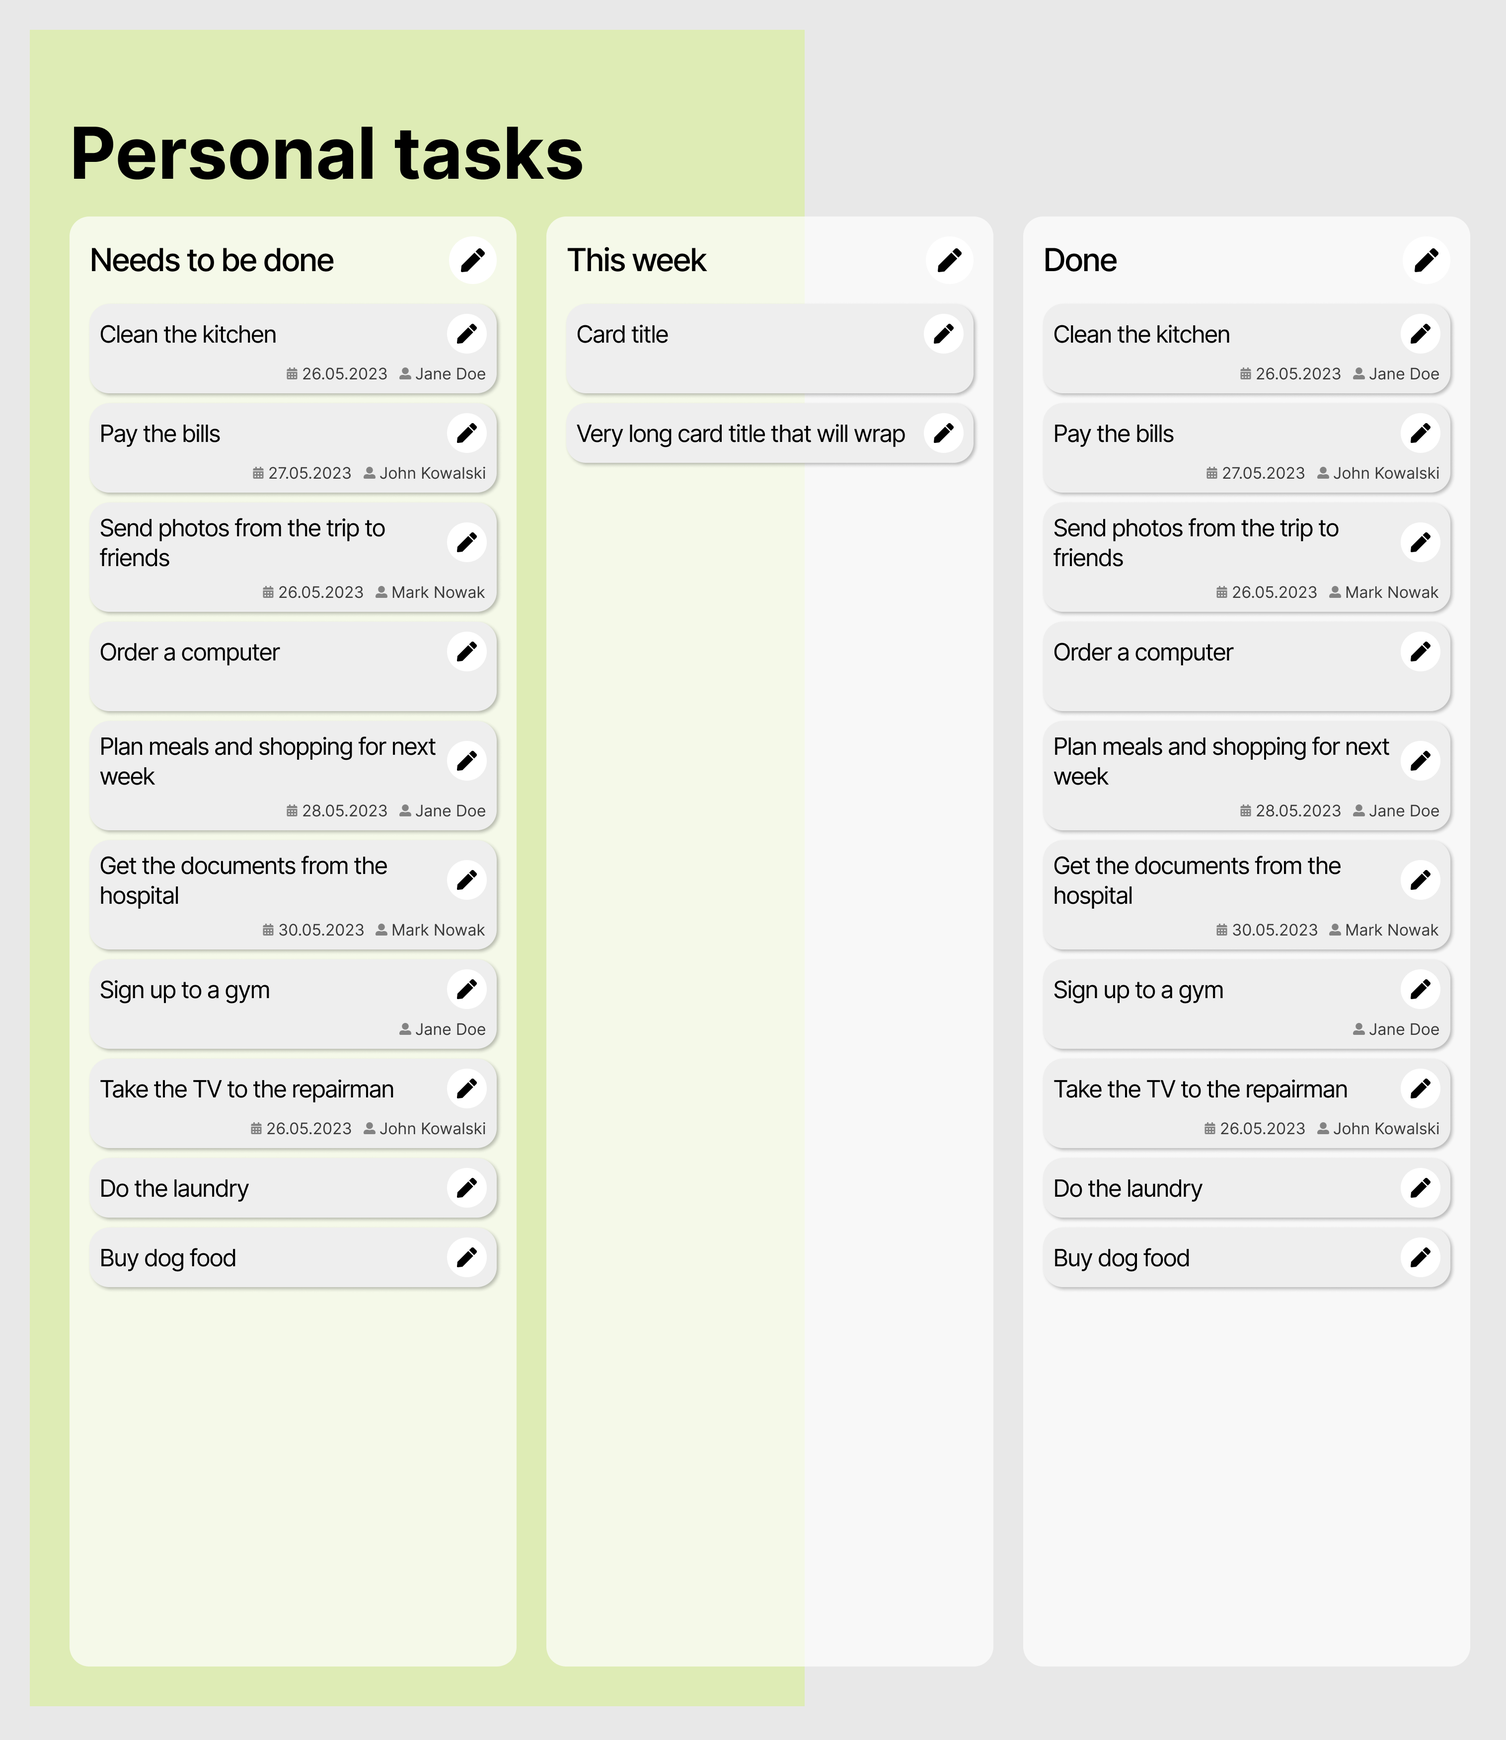
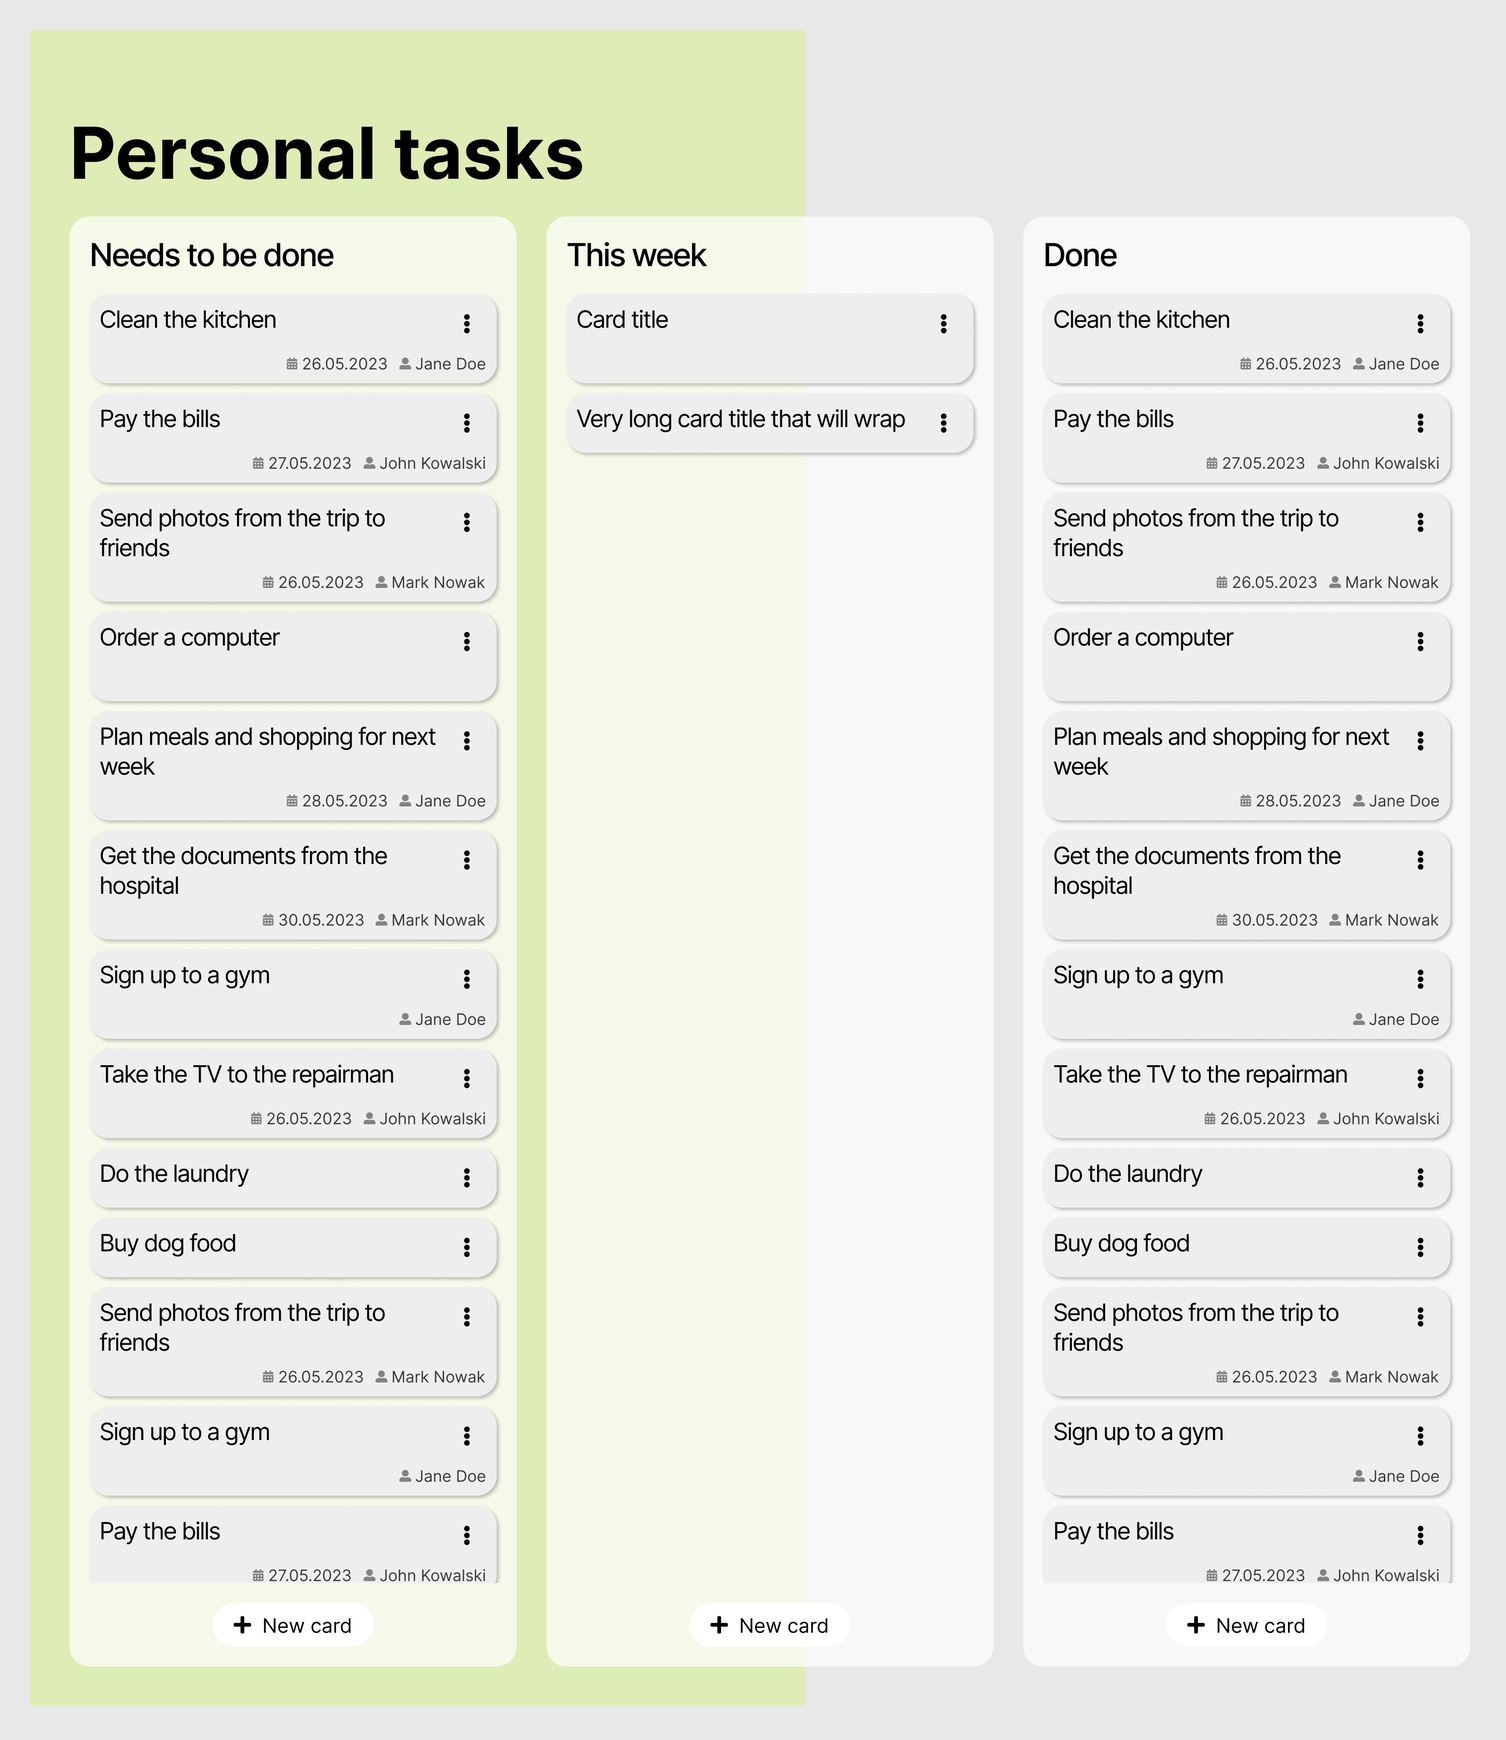
describe the case study in detail

diff --git a/thesis-document/src/3-research-methodology/4-case-study.tex b/thesis-document/src/3-research-methodology/4-case-study.tex
@@ -1,7 +1,7 @@
 \subsection{Case study}\label{subsec:case-study}
 This section describes the practical experiment used to evaluate representations.
 The goal was to validate the previous evaluation in a more realistic development scenario.
-Additionally, this was an opportunity to \todo{lepszy zwrot} gain an impression of developer experience while using the notations.
+Additionally, this was an opportunity to assess the development experience that the notations deliver.
 
 \subsubsection{Scenario and context}
 The goal of this experiment was to evaluate the expressiveness of representations in a practical context.
@@ -9,7 +9,7 @@ This was achieved by recreating a few screens of a fictional application.
 The application designed for this experiment was modeled after Trello\furl{trello.com} \textendash\ a well-known Web application for creating Kanban-style lists.
 The choice was motivated by the application's popularity and relative complexity.
 
-Capabilities of the original are very broad and include detailed management of workspaces, users, boards, as well as editing and managing content-rich cards.
+Capabilities of the original application are very broad and include detailed management of workspaces, users, boards, as well as editing and managing content-rich cards.
 It would not be reasonable to implement all these functionalities \textendash\ to keep the experiment manageable, it was necessary to limit its scope.
 The selected area to implement concerns simple management of cards across two views and a single dialog window:
 \begin{itemize}
@@ -26,20 +26,111 @@ Additionally, the representations should be able to represent two major componen
     \item a column \textendash\ a board consists of multiple columns, each possibly containing multiple cards; additionally, to give it meaning, it also has a title
 \end{itemize}
 
-To further simplify the experiment, the interface was only implemented in a mobile version \textendash\ it is considered a good practice to design applications and website using the \enquote{mobile first} principle\furl{https://developer.mozilla.org/en-US/docs/Web/Progressive_web_apps/Responsive/Mobile_first}.% \textendash\ focusing on designing for narrow devices in the first place and extending the design from there.
+To further simplify the experiment, the interface was only implemented in a mobile version \textendash\ it is considered a good practice to design applications and website using the \enquote{mobile first} principle\furl{https://developer.mozilla.org/en-US/docs/Web/Progressive_web_apps/Responsive/Mobile_first}.
 
-The subsequent paragraphs provide a descriptions of functionalities that the representations were expected to implement.
-However, in this case study, the requirements were not prescriptive \textendash\ they only listed \enquote{features} to implement, without specifying how should they be implemented.
+The subsequent paragraphs provide a descriptions of functionalities that the representations were expected to implement;
+table~\ref{tab:case-study-requirements} summarizes them, split across five sections \textendash\ each corresponding to an implementation area described beforehand.
+In this experiment, the requirements were not prescriptive \textendash\ they only listed \enquote{features} to implement, without specifying how should they be implemented.
 This is meant to produce a more practical evaluation.
+To reflect this freedom of implementation, the evaluation of requirements included a score for partial fulfillment, not only a binary score.
 
-\todo[inline]{scoring system}
+Each requirement RX.Y is assigned a score $R_{X.Y}$ based on formula~\ref{eq:3-4-requirement-scoring}
+\begin{equation}
+    R_{X.Y} =
+    \begin{dcases}
+        0,  & \text{if the requirement is not satisfied}\\
+        0.5 & \text{if the requirement is partially satisfied}\\
+        1   & \text{if the requirement is satisfied}
+    \end{dcases}
+    \label{eq:3-4-requirement-scoring}
+\end{equation}
+
+The score $R_X$ for each area RX is the average score of all the requirements for the area (formula~\ref{eq:3-4-area-scoring}):
+\begin{equation}
+    R_X = \frac{\sum_{i=1}^{n} R_{X.i}}{n}
+    \label{eq:3-4-area-scoring}
+\end{equation}
+
+Similarly, the total score $T_{\text{requirements}}$ for the whole representation is\textellipsis.
+\begin{equation}
+    T_{\text{requirements}} = \frac{\sum_{i=1}^{5} R_i}{5}
+    \label{eq:3-4-representation-scoring}
+\end{equation}
+
+\begin{longtblr}[
+    caption = {Requirements for parts of the interface developed in the case study},
+    label = {tab:case-study-requirements},
+]{
+    colspec = {cc},
+    rowhead = 1,
+    rows = {m},
+}
+    \hline[1pt]
+    \textbf{Number} & \textbf{Requirement name}                                                       \\*
+    \hline[1pt]
+    \textbf{R1}     & \textbf{Boards view}                                                            \\*
+    R1.1            & view title has a bold, very large font                                          \\*
+    R1.2            & boards are loaded when the view is opened                                       \\*
+    R1.3            & bords are displayed                                                             \\*
+    R1.4            & clicking on a board navigates to the selected board                             \\
+    \hline
+    \textbf{R2}     & \textbf{Board view}                                                             \\*
+    R2.1            & columns (and cards) are loaded when the view is opened                          \\*
+    R2.2            & columns are displayed in a horizontal layout                                    \\*
+    R2.3            & columns can be scrolled when they don't fit on the screen                       \\
+    \hline
+    \textbf{R3}     & \textbf{Column component}                                                       \\*
+    R3.1            & container has some padding                                                      \\*
+    R3.2            & title is displayed at the top (and doesn't move when scrolling cards)           \\*
+    R3.3            & cards displayed in a column, slightly separated from one another                \\*
+    R3.4            & cards can be scrolled when they don't fit                                       \\*
+    R3.5            & new card button is displayed at the bottom (and doesn't move when scrolling)    \\*
+    R3.6            & new card button is slightly separated from the cards and is centered            \\*
+    R3.7            & new card button has a plus icon                                                 \\*
+    R3.8            & new card button opens a card dialog without data when clicked                   \\
+    \hline
+    \textbf{R4}     & \textbf{Card component}                                                         \\*
+    R4.1            & card button is displayed in the top right corner of the card                    \\*
+    R4.2            & card button opens a context menu when clicked                                   \\*
+    R4.3            & editing card item opens a dialog with card data when clicked                    \\*
+    R4.4            & delete card item deletes the card from the column when clicked                  \\*
+    R4.5            & delete card item calls an appropriate service when clicked                      \\*
+    R4.6            & card indicators are written in grey text                                        \\*
+    R4.7            & card indicators display icons                                                   \\
+    \hline
+    \textbf{R5}     & \textbf{Card dialog}                                                            \\*
+    R5.1            & empty inputs have placeholders                                                  \\*
+    R5.2            & title field is required                                                         \\*
+    R5.3            & title field displays a custom error message when the input is empty             \\*
+    R5.4            & card description field is a multi-row input                                     \\*
+    R5.5            & assigned person and planned date fields are shorter and displayed in single row \\*
+    R5.6            & planned date field is a date input                                              \\*
+    R5.7            & column field allows selecting from all columns in the board                     \\*
+    R5.8            & cancel button discards the changes                                              \\*
+    R5.9            & save button adds or updates the card                                            \\*
+    R5.10           & save button calls a service                                                     \\*
+    R5.11           & save button is not active if the title is not provided                          \\
+    \hline[1pt]
+\end{longtblr}
 
 \paragraph{The boards view}
-The boards view consists of\textellipsis
-\todo[inline]{todo}
+
+\begin{figure}
+    \centering
+    \includegraphics[height=0.4\textheight]{./3-research-methodology/boards-view}
+    \caption{An example design of a boards view.}
+    \label{fig:3-4-boards-view}
+\end{figure}
+
+The boards view (presented in figure~\ref{fig:3-4-boards-view}) is meant to be the entrypoint of the application.
+In this case study, it is rather simple \textendash\ it only consists of the header and the list of boards of the user has access to.
+The user can navigate to each of the boards by clicking a card with the board's name.
+\todo{write clearer}Although in a real application, this view would provide much more functionality and information, as explained in the introduction to this section, this experiment only evaluates a narrow subset for brevity.
+
+\todo[inline]{requirements}
 
 \paragraph{The board view}
-The board view, presented in figure~\ref{fig:3-4-board-view} consists of a title and multiple columns.
+The board view, presented in figures~\ref{fig:3-4-board-view} and~\ref{fig:3-4-board-view-with-dialog} consists of a title and multiple columns.
 Only the part with the green background is visible to the user;
 the rest of the columns need to be scrolled to the view to be visible.
 
@@ -50,8 +141,20 @@ the rest of the columns need to be scrolled to the view to be visible.
     \label{fig:3-4-board-view}
 \end{figure}
 
+\begin{figure}
+    \centering
+    \includegraphics[height=0.4\textheight]{./3-research-methodology/board-view-with-dialog}
+    \caption{An example design of a board view with the card editing dialog.}
+    \label{fig:3-4-board-view-with-dialog}
+\end{figure}
+
+\todo[inline]{requirements}
+
 \paragraph{The column component}
-The column component, presented in figure~\ref{fig:3-4-column-component} consists of a title and cards.
+The column component, presented in figure~\ref{fig:3-4-column-component} consists of three parts: a title at the top, a set of cards and a button for adding new cards in the bottom.
+The button opens a dialog window with a form for providing data about the card.
+The top and bottom parts are \enquote{stuck} to the edges of the container: the title is always on the top of the container and the button \textendash\ at the bottom;
+cards take the rest of the space of the container, scrolling if they cannot fit.
 
 \begin{figure}
     \centering
@@ -60,8 +163,12 @@ The column component, presented in figure~\ref{fig:3-4-column-component} consist
     \label{fig:3-4-column-component}
 \end{figure}
 
+\todo[inline]{requirements}
+
 \paragraph{The card component}
-Figure~\ref{fig:3-4-card-component} depicts a card component, consisting of a title and various indicators (short texts with an icon) \textendash\ that unobtrusively signal information about a list item.
+Figures~\ref{fig:3-4-card-component} and~\ref{fig:3-4-card-component-with-menu} depict a card component, consisting of a title and various indicators (short texts with an icon) \textendash\ that unobtrusively signal information about a list item.
+In the top-right corner of the card there is a button that opens a context menu with two items: one that allows for editing a card (by opening a dialog), and the other that deletes a card.
+
 \begin{figure}
     \centering
     \includegraphics[width=\textwidth]{./3-research-methodology/card-component}
@@ -69,35 +176,33 @@ Figure~\ref{fig:3-4-card-component} depicts a card component, consisting of a ti
     \label{fig:3-4-card-component}
 \end{figure}
 
-The table~\ref{tab:3-4-card-component-requirements} presents the requirements for a card component implemented by the selected representations.
-
-\begin{longtblr}[
-    caption = {Requirements for the card component in the case study.},
-    label = {tab:3-4-card-component-requirements},
-]{
-    colspec = {cX[4,c]X[1,c]},
-    rowhead = 1,
-    rows = {m},
-}
-    \hline[1pt]
-    \textbf{No.} & \textbf{Requirement}                                             & \textbf{Relevant criteria} \\*
-    \hline[1pt]
-    E1           & the card indicators are displayed using icons                    & \textbf{A6}                \\*
-    E2           & the component emits a \texttt{click} event when clicked          & B4.2, B12.4                \\*
-    E3           & the component accepts card title and indicators as inputs        & B12.2                      \\*
-    E4           & the card has rounded borders                                     & D6.7                       \\*
-    E5           & the title takes the whole width of a card and wraps as necessary & \textbf{D3}                \\*
-    E6           & the title is displayed in a 12pt font                            & D7.5                       \\*
-    E7           & etc\textellipsis                                                 & \textellipsis              \\*
-    \hline[1pt]
-\end{longtblr}
+\begin{figure}
+    \centering
+    \includegraphics[width=\textwidth]{./3-research-methodology/card-component-with-menu}
+    \caption{An example design of a card component with menu opened.}
+    \label{fig:3-4-card-component-with-menu}
+\end{figure}
 
 \paragraph{The card editing dialog}
-The dialog is presented in the figure~\ref{fig:3-4-card-editing-dialog}.
+The dialog is presented in the figures~\ref{fig:3-4-card-dialog} and~\ref{fig:3-4-card-dialog-with-error}.
+It is essentially a simple form \textendash\ a user can use it to provide information about a card: a title, a description, a person responsible for the card, a date and the column.
+Two buttons are placed at the bottom of the view \textendash\ one for discarding the edits and the other one for saving them.
+Only the title field is explicitly validated as a mandatory field.
+\todo{write clearer}The column field is also required, but it should be chosen from a given set of values, therefore it does not need any additional validation.
+The rest of the fields are optional.
+\todo[inline]{requirements}
 
 \begin{figure}
     \centering
-    \includegraphics[height=0.4\textheight]{./3-research-methodology/card-editing-dialog}
+    \includegraphics[height=0.4\textheight]{./3-research-methodology/card-dialog}
     \caption{An example design of a card editing dialog.}
-    \label{fig:3-4-card-editing-dialog}
+    \label{fig:3-4-card-dialog}
 \end{figure}
+
+\begin{figure}
+    \centering
+    \includegraphics[height=0.4\textheight]{./3-research-methodology/card-dialog-with-error}
+    \caption{An example design of a card editing dialog with input error.}
+    \label{fig:3-4-card-dialog-with-error}
+\end{figure}
+

diff --git a/thesis-document/src/3-research-methodology/3-evaluation-criteria.tex b/thesis-document/src/3-research-methodology/3-evaluation-criteria.tex
@@ -27,13 +27,13 @@ the formula for the score $C$ of a given criterion X is presented as an equation
     C_X =
 \begin{dcases}
     \frac{\sum_{i=1}^{n} C_{X.i}}{n} & \text{if X consists of $n$ lower-level criteria X.1, X.2, ..., X.$n$}\\
-    1                            & \text{if the criterion is fulfilled}\\
-    0,                           & \text{if the criterion is not fulfilled}
+    1                                & \text{if the criterion is fulfilled}\\
+    0,                               & \text{if the criterion is not fulfilled}
 \end{dcases}
     \label{eq:3-3-criterion-scoring}
 \end{equation}
 
-The same mechanism was used to calculate a score $S$ for a whole section Y (presented in equation~\ref{eq:3-3-section-scoring}) and a total score ($T$) for the whole representation (equation~\ref{eq:3-3-total-scoring}).
+The same mechanism was used to calculate a score $S$ for a whole section Y (presented in equation~\ref{eq:3-3-section-scoring}) and a total score ($T_{\text{criteria}}$) for the whole representation (equation~\ref{eq:3-3-total-scoring}).
 
 \begin{equation}
     S_Y = \frac{\sum_{i=1}^{n} C_{Yi}}{n}
@@ -49,6 +49,7 @@ This mechanism of scoring allowed for a detailed and unambiguous evaluation whil
 At the same time, each score can be interpreted as a unified measure of support for complex criteria.
 
 Table ~\ref{tab:my-table} presents example results of evaluation of two hypothetical representations (R1 and R2) against a set of criteria.
+Fulfilled criteria are marked with a checkmark (\cmark), the rest are marked with a crossmark (\cmark).
 The criterion \textbf{A1} is does not contain any subcriteria, therefore it is evaluated directly.
 Criterion \textbf{A2} contains two subcriteria, so the score for this criterion is a percentage of subcriteria that fulfill the given criteria \textendash\ in R1, only one of two criteria is satisfied, so the score is 50\%; in R2 both criteria are satisfied, so the score is 100\%.
 The same mechanism applies to criteria A3.1, A3.2 and, in fact, the criterion \textbf{A3} \textendash\ its value is calculated as an average of scores for criteria A3.1 and A3.2.
@@ -355,7 +356,6 @@ Finally, criterion \textbf{D8} checks whether the representations support using 
     rowhead = 1,
     rows = {m},
 }
-
     \hline[1pt]
     \textbf{No.} & \textbf{Name}                         & \textbf{Description}                                                                                    \\*
     \hline[1pt]

diff --git a/thesis-document/src/main.tex b/thesis-document/src/main.tex
@@ -22,6 +22,8 @@
 \usepackage{pifont}% http://ctan.org/pkg/pifont
 \usepackage{mathtools}
 \usepackage{amsmath} % for conditional equations
+\usepackage{caption}
+\usepackage{subcaption} % for subfigures
 
 \renewcommand{\arraystretch}{1.15}
 \setlength{\tabcolsep}{3pt}
